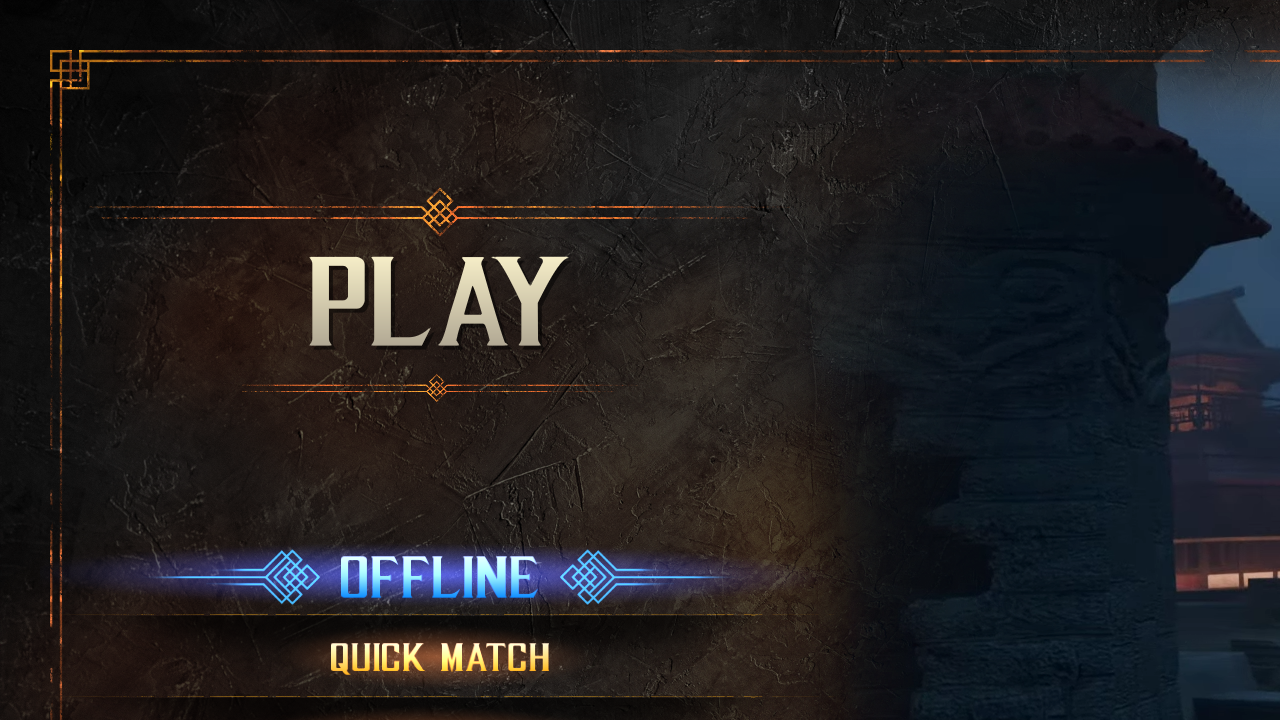
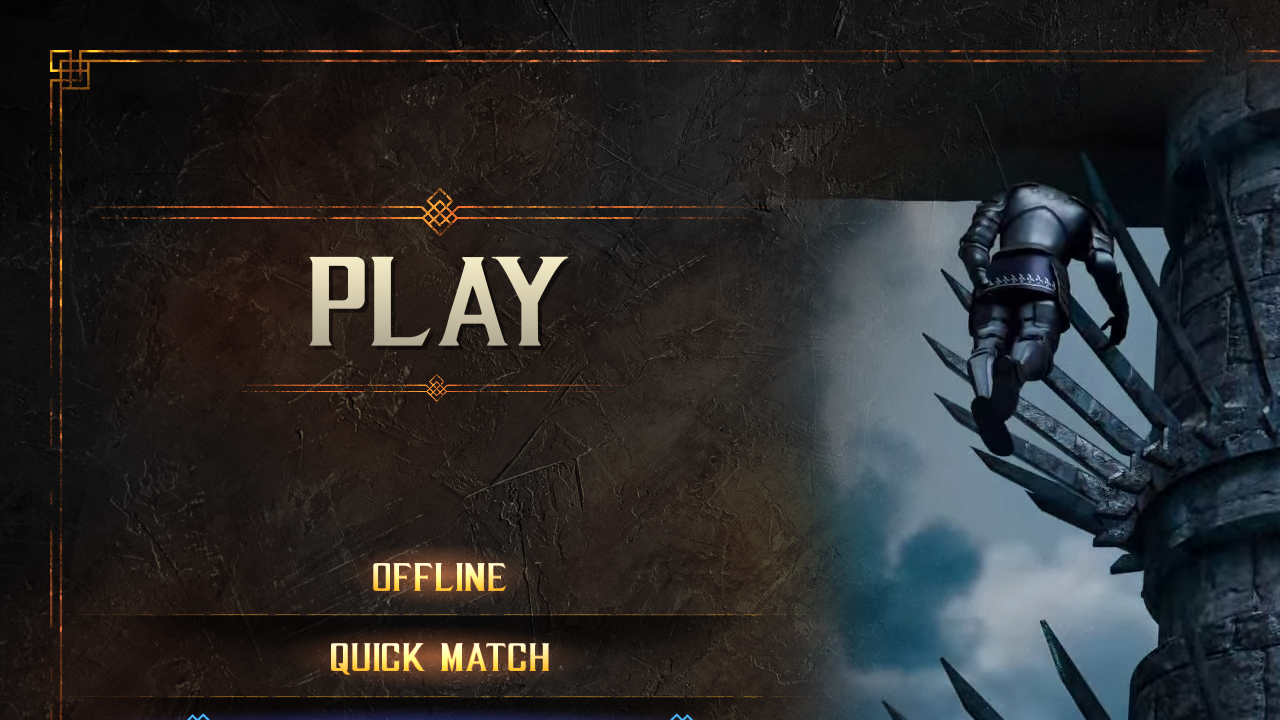
Re-capture the Play menu live; strip highlight ornaments from OCR lines
Live test, confirmed by a Be My Eyes description: the Play menu never
matched its library entry (the right side is a rotating background, and
the old capture was cut off below QUICK MATCH), so it fell back to OCR,
which read QUICK MATCH as "MATCH" and re-read the whole screen on every
cursor move because the highlight ornament OCR'd as a stray "-4".

- launcher__play_menu: new full-frame capture, left-column roi, all four
  items (OFFLINE, QUICK MATCH, ONLINE ARCADE, ONLINE OPTIONS).
- clean_ocr_line drops symbol-only tokens at line ends before OCR text is
  used, so a moving highlight no longer looks like a new screen.
- Tests: 49/49.

Claude-Session: https://claude.ai/code/session_016bz9W3WeYmGXsn1QAMHYE2

diff --git a/ocr_reader/main.py b/ocr_reader/main.py
@@ -225,6 +225,36 @@ def load_library():
     return library
 
 
+def clean_ocr_line(text):
+    """Drop stray symbol tokens at either end of an OCR line. Added
+    2026-10-11 after a live test: the glowing ornament beside a highlighted
+    menu item OCRs as "—4" or similar, so "ONLINE ARCADE" became
+    "—4 ONLINE ARCADE" whenever it was highlighted - which changed the
+    screen's identity and re-read the whole screen on every cursor move.
+    Only tokens with a symbol and no letters are dropped, and only while
+    some lettered text remains, so "1:36" or "16" alone are kept."""
+    tokens = text.split()
+
+    def junk(token):
+        return not any(c.isalpha() for c in token) and any(not c.isalnum() for c in token)
+
+    while len(tokens) > 1 and junk(tokens[0]) and any(c.isalpha() for c in "".join(tokens[1:])):
+        tokens.pop(0)
+    while len(tokens) > 1 and junk(tokens[-1]) and any(c.isalpha() for c in "".join(tokens[:-1])):
+        tokens.pop()
+    return " ".join(tokens)
+
+
+def read_screen_text(img):
+    """Live OCR with clean_ocr_line applied to every line."""
+    from game_a11y_core.ocr import ocr_image
+
+    lines = asyncio.run(ocr_image(img))
+    for line in lines:
+        line["text"] = clean_ocr_line(line["text"])
+    return [line for line in lines if line["text"]]
+
+
 # --- The reader -------------------------------------------------------------
 
 class Reader:
@@ -435,7 +465,7 @@ class Reader:
             to_speak = highlighted_text if highlighted_text else ". ".join(entry["canonical_text"])
             screen_key = ("lib", entry["screen_id"])
         else:
-            lines = asyncio.run(ocr_image(full))
+            lines = read_screen_text(full)
             screen_texts = [l["text"] for l in lines]
             highlighted_text = find_highlighted_text(full, lines, self.calibration)
             print("Manual re-read (F9): no library match, using live OCR.")
@@ -470,7 +500,7 @@ class Reader:
             screen_ocr_texts = None  # not applicable in library mode
             highlighted_text = self.entry_highlight(full, entry)
         else:
-            lines = asyncio.run(ocr_image(full))
+            lines = read_screen_text(full)
             screen_texts = [l["text"] for l in lines]
             screen_key = ("ocr", tuple(screen_texts))
             screen_payload = ". ".join(screen_texts) if screen_texts else None

diff --git a/tests/test_main_helpers.py b/tests/test_main_helpers.py
@@ -83,3 +83,14 @@ def test_main_menu_highlight_is_found_below_the_library_view():
         bbox = next(l["bbox"] for l in entry["ocr_lines_raw"] if l["text"] == item)
         ImageDraw.Draw(full).rectangle(bbox, fill=(105, 200, 230))  # the game's cyan "selected" text
         assert main.Reader.entry_highlight(reader, full, entry) == item
+
+
+def test_clean_ocr_line_drops_highlight_ornaments_only():
+    from main import clean_ocr_line
+
+    assert clean_ocr_line("—4 ONLINE ARCADE") == "ONLINE ARCADE"
+    assert clean_ocr_line("ONLINE ARCADE —4") == "ONLINE ARCADE"
+    assert clean_ocr_line("1:36") == "1:36"
+    assert clean_ocr_line("16") == "16"
+    assert clean_ocr_line("HRS MINS") == "HRS MINS"
+    assert clean_ocr_line("MORTAL KOMBAT 3") == "MORTAL KOMBAT 3"
